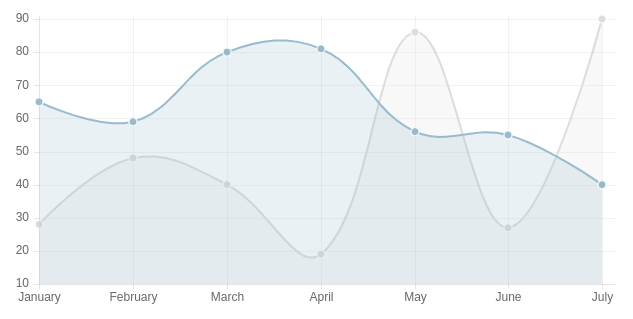
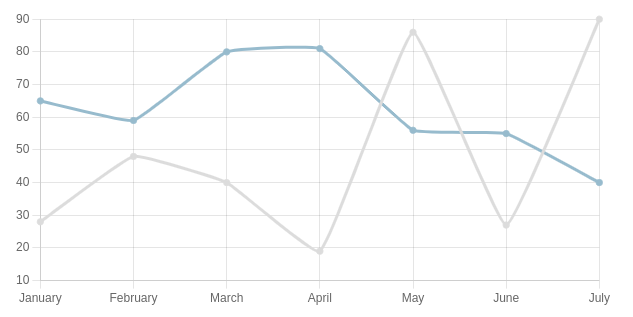
Upgrade Chart.js to 3.7.0 (#17)

diff --git a/lib/asciidoctor/chart/chartjs/chart_builder.rb b/lib/asciidoctor/chart/chartjs/chart_builder.rb
@@ -3,62 +3,90 @@
 module Asciidoctor
   module Chart
     module Chartjs
+      CSS_VALUE_UNIT_RX = /^([+-]?(?:\d+|\d*\.\d+))([a-z]*|%)$/.freeze
+
       class ChartBuilder
-        def self.line data, labels, attrs
-          default_colors = [{ r: 220, g: 220, b: 220 }, { r: 151, g: 187, b: 205 }]
-          datasets = data.map do |set|
-            color = default_colors[data.index(set) % 2]
-            color_rgba = "rgba(#{color[:r]},#{color[:g]},#{color[:b]},1.0)"
-            <<~EOS
-            {
-              fillColor: "#{color_rgba.gsub('1.0', '0.2')}",
-              strokeColor: "#{color_rgba}",
-              pointColor: "#{color_rgba}",
-              pointHighlightStroke: "#{color_rgba}",
-              pointStrokeColor: "#fff",
-              pointHighlightFill: "#fff",
-              data: #{set.to_s}
-            }
-            EOS
-          end.join ','
-          chart_id = attrs.fetch('id', "chart#{PlainRubyRandom.uuid}")
-          chart_height = get_chart_height attrs
-          chart_width = get_chart_width attrs
-          chart_canvas = %(<div style="width:#{chart_width}px; height:#{chart_height}px"><canvas id="#{chart_id}"></canvas></div>) # rubocop:disable Layout/LineLength
-          chart_init_ctx_script = %(var ctx = document.getElementById("#{chart_id}").getContext("2d");)
-          chart_init_data_script = <<~EOS
-          var data = {
-            labels: #{labels.to_s},
-            datasets: [
-              #{datasets}
-            ]
-          };
-          EOS
-          chart_init_script = 'var chart = new Chart(ctx).Line(data, {responsive : true});'
-          <<~EOS
-          #{chart_canvas}
-          <script>
-          window.addEventListener('load', function(event) {
-          #{chart_init_ctx_script}
-          #{chart_init_data_script}
-          #{chart_init_script}
-          })
-          </script>
-          EOS
-        end
+        class << self
+          def line data, labels, attrs
+            default_colors = [{ r: 220, g: 220, b: 220 }, { r: 151, g: 187, b: 205 }]
+            datasets = data.map do |set|
+              color = default_colors[data.index(set) % 2]
+              color_rgba = "rgba(#{color[:r]},#{color[:g]},#{color[:b]},1.0)"
+              <<~JSON
+                {
+                  borderColor: "#{color_rgba}",
+                  backgroundColor: "#{color_rgba}",
+                  fill: false,
+                  tension: 0.1,
+                  data: #{set.to_s}
+                }
+              JSON
+            end.join ','
+            chart_id = attrs.fetch('id', "chart#{PlainRubyRandom.uuid}")
+            inline_styles = ['position: relative']
+            if (chart_height = get_height attrs)
+              inline_styles.push("height: #{chart_height}")
+            end
+            if (chart_width = get_width attrs)
+              inline_styles.push("max-width: #{chart_width}")
+            end
+            maintain_aspect_ratio = chart_height.nil? && chart_width.nil?
+            <<~HTML
+              <div class="chartjs-container" style="#{inline_styles.join('; ')}"><canvas id="#{chart_id}"></canvas></div>
+              <script>
+              window.addEventListener('load', function(event) {
+                var data = {
+                  labels: #{labels.to_s},
+                  datasets: [#{datasets}]
+                }
+                var chart = new Chart(document.getElementById("#{chart_id}").getContext("2d"), {
+                  type: 'line',
+                  data: data,
+                  options: {
+                    interaction: {
+                      mode: 'index'
+                    },
+                    responsive : true,
+                    maintainAspectRatio: #{maintain_aspect_ratio},
+                    plugins: {
+                      legend: {
+                        display: false
+                      }
+                    }
+                  }
+                })
+              })
+              </script>
+            HTML
+          end
 
-        def self.prepare_data raw_data
-          labels = raw_data[0]
-          raw_data.shift
-          [raw_data, labels]
-        end
+          def prepare_data raw_data
+            labels = raw_data[0]
+            raw_data.shift
+            [raw_data, labels]
+          end
 
-        def self.get_chart_height attrs
-          attrs.fetch 'height', '400'
-        end
+          private
 
-        def self.get_chart_width attrs
-          attrs.fetch 'width', '600'
+          def get_height attrs
+            return unless (height = (attrs.fetch 'height', nil))
+
+            to_css_size height
+          end
+
+          def get_width attrs
+            return unless (width = (attrs.fetch 'width', nil))
+
+            to_css_size width
+          end
+
+          def to_css_size str
+            return str unless (parts = str.match(CSS_VALUE_UNIT_RX))
+
+            value, unit = parts.captures
+            unit = 'px' if unit == ''
+            "#{value}#{unit}"
+          end
         end
       end
     end

diff --git a/spec/chartjs_chart_builder_spec.rb b/spec/chartjs_chart_builder_spec.rb
@@ -1,0 +1,45 @@
+# frozen_string_literal: true
+
+require 'asciidoctor'
+require_relative '../lib/asciidoctor-chart'
+
+describe 'Asciidoctor::Chart::Chartjs::ChartBuilder' do
+  it 'should use px unit when no unit is defined' do
+    data = [
+      [28, 48, 40, 19, 86, 27, 90],
+      [65, 59, 80, 81, 56, 55, 40]
+    ]
+    labels = %w[January February March April May June July]
+    attrs = {
+      'width' => '600',
+      'height' => '400'
+    }
+    html = Asciidoctor::Chart::Chartjs::ChartBuilder.line data, labels, attrs
+    (expect html).to include %(<div class="chartjs-container" style="position: relative; height: 400px; max-width: 600px">) # rubocop:disable Layout/LineLength
+  end
+  it 'should preserve units when defined on width or height' do
+    data = [
+      [28, 48, 40, 19, 86, 27, 90],
+      [65, 59, 80, 81, 56, 55, 40]
+    ]
+    labels = %w[January February March April May June July]
+    attrs = {
+      'width' => '80%',
+      'height' => '20vh'
+    }
+    html = Asciidoctor::Chart::Chartjs::ChartBuilder.line data, labels, attrs
+    (expect html).to include %(<div class="chartjs-container" style="position: relative; height: 20vh; max-width: 80%">)
+  end
+  it 'should disable maintain aspect ratio when width or height is defined' do
+    data = [
+      [28, 48, 40, 19, 86, 27, 90],
+      [65, 59, 80, 81, 56, 55, 40]
+    ]
+    labels = %w[January February March April May June July]
+    html = Asciidoctor::Chart::Chartjs::ChartBuilder.line data, labels, { 'width' => '600' }
+    (expect html).to include 'maintainAspectRatio: false'
+
+    html = Asciidoctor::Chart::Chartjs::ChartBuilder.line data, labels, { 'height' => '400' }
+    (expect html).to include 'maintainAspectRatio: false'
+  end
+end

diff --git a/lib/asciidoctor/chart/docinfo_processor.rb b/lib/asciidoctor/chart/docinfo_processor.rb
@@ -6,14 +6,14 @@ module Asciidoctor
       use_dsl
       # at_location :head
 
-      C3JS_STYLESHEET = '<link rel="stylesheet" href="http://cdnjs.cloudflare.com/ajax/libs/c3/0.3.0/c3.min.css">'
-      D3JS_SCRIPT = '<script src="http://cdnjs.cloudflare.com/ajax/libs/d3/3.4.11/d3.min.js" charset="utf-8"></script>'
-      C3JS_SCRIPT = '<script src="http://cdnjs.cloudflare.com/ajax/libs/c3/0.3.0/c3.min.js"></script>'
+      C3JS_STYLESHEET = '<link rel="stylesheet" href="https://cdnjs.cloudflare.com/ajax/libs/c3/0.3.0/c3.min.css">'
+      D3JS_SCRIPT = '<script src="https://cdnjs.cloudflare.com/ajax/libs/d3/3.4.11/d3.min.js" charset="utf-8"></script>'
+      C3JS_SCRIPT = '<script src="https://cdnjs.cloudflare.com/ajax/libs/c3/0.3.0/c3.min.js"></script>'
 
-      CHARTIST_STYLESHEET = '<link rel="stylesheet" href="http://cdn.jsdelivr.net/chartist.js/latest/chartist.min.css">'
-      CHARTIST_SCRIPT = '<script src="http://cdn.jsdelivr.net/chartist.js/latest/chartist.min.js"></script>'
+      CHARTIST_STYLESHEET = '<link rel="stylesheet" href="https://cdn.jsdelivr.net/chartist.js/latest/chartist.min.css">'
+      CHARTIST_SCRIPT = '<script src="https://cdn.jsdelivr.net/chartist.js/latest/chartist.min.js"></script>'
 
-      CHARTJS_SCRIPT = '<script src="http://cdnjs.cloudflare.com/ajax/libs/Chart.js/1.0.2/Chart.min.js"></script>'
+      CHARTJS_SCRIPT = '<script src="https://cdnjs.cloudflare.com/ajax/libs/Chart.js/3.7.0/chart.min.js"></script>'
 
       def process _doc
         # TODO: Import only the required engines
